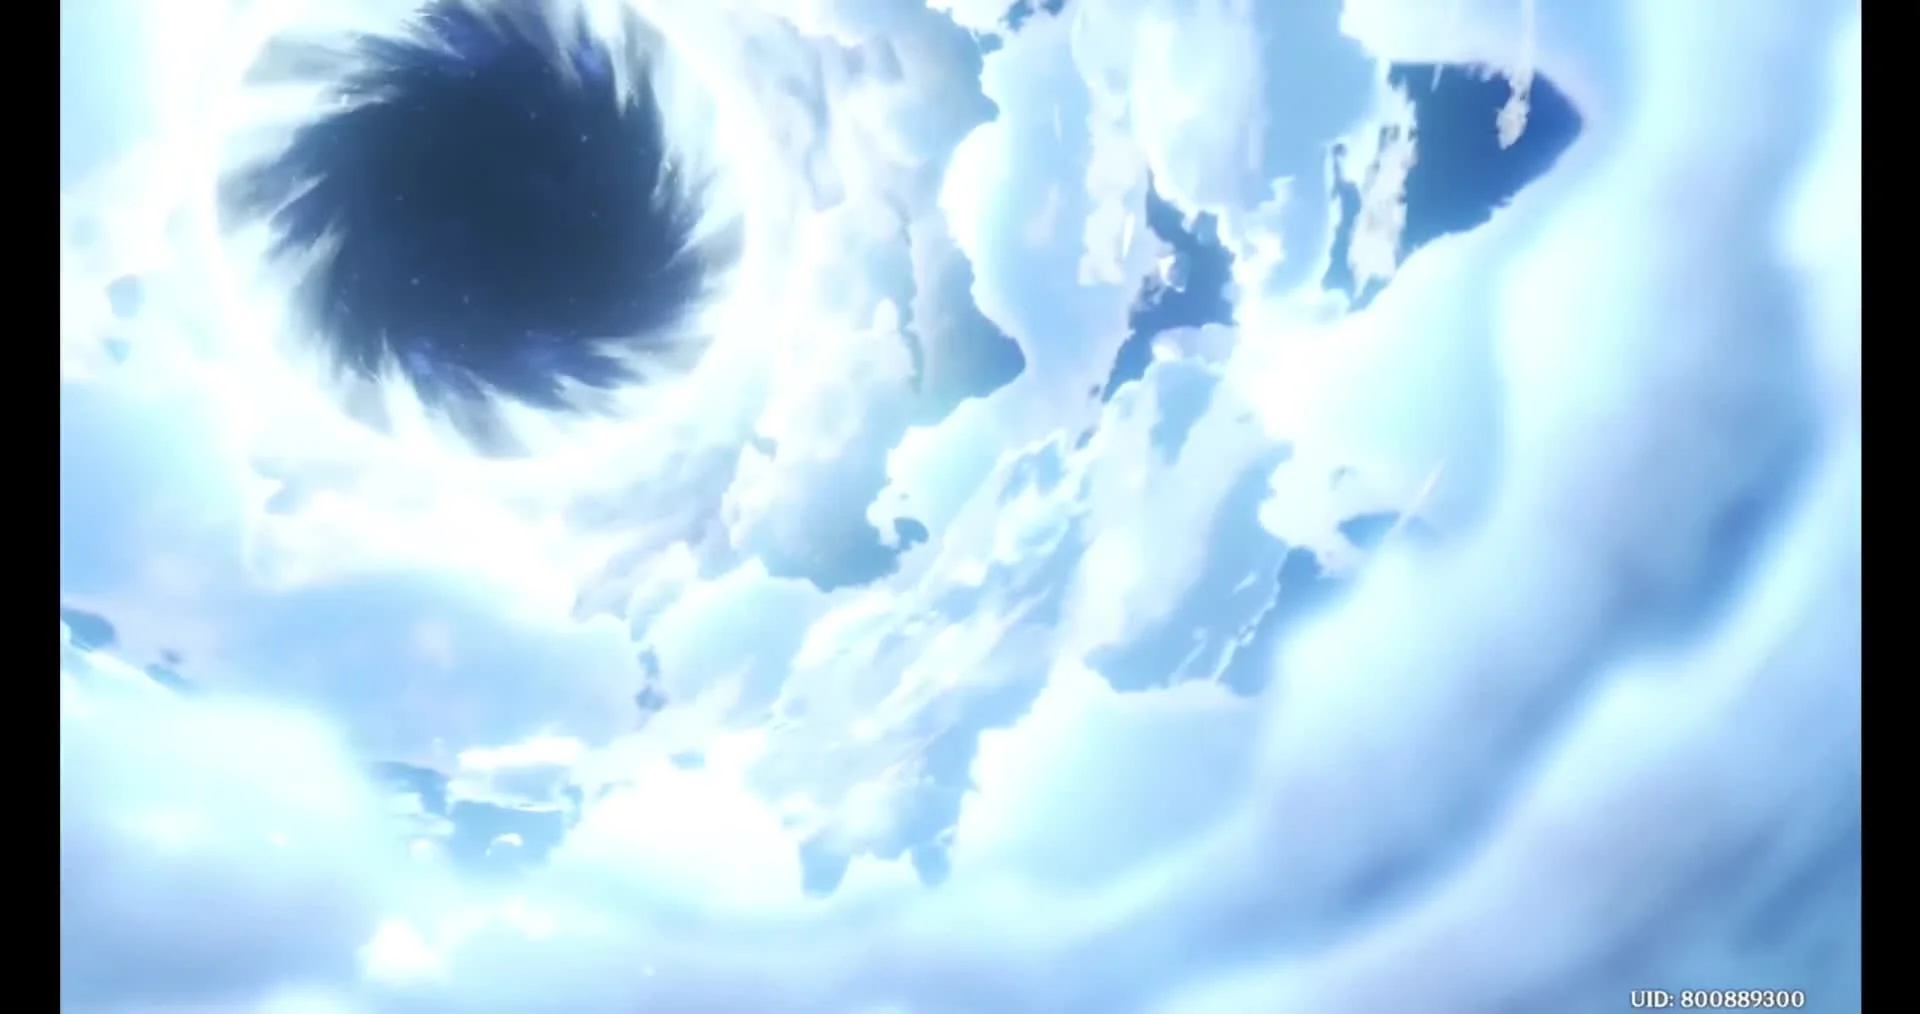
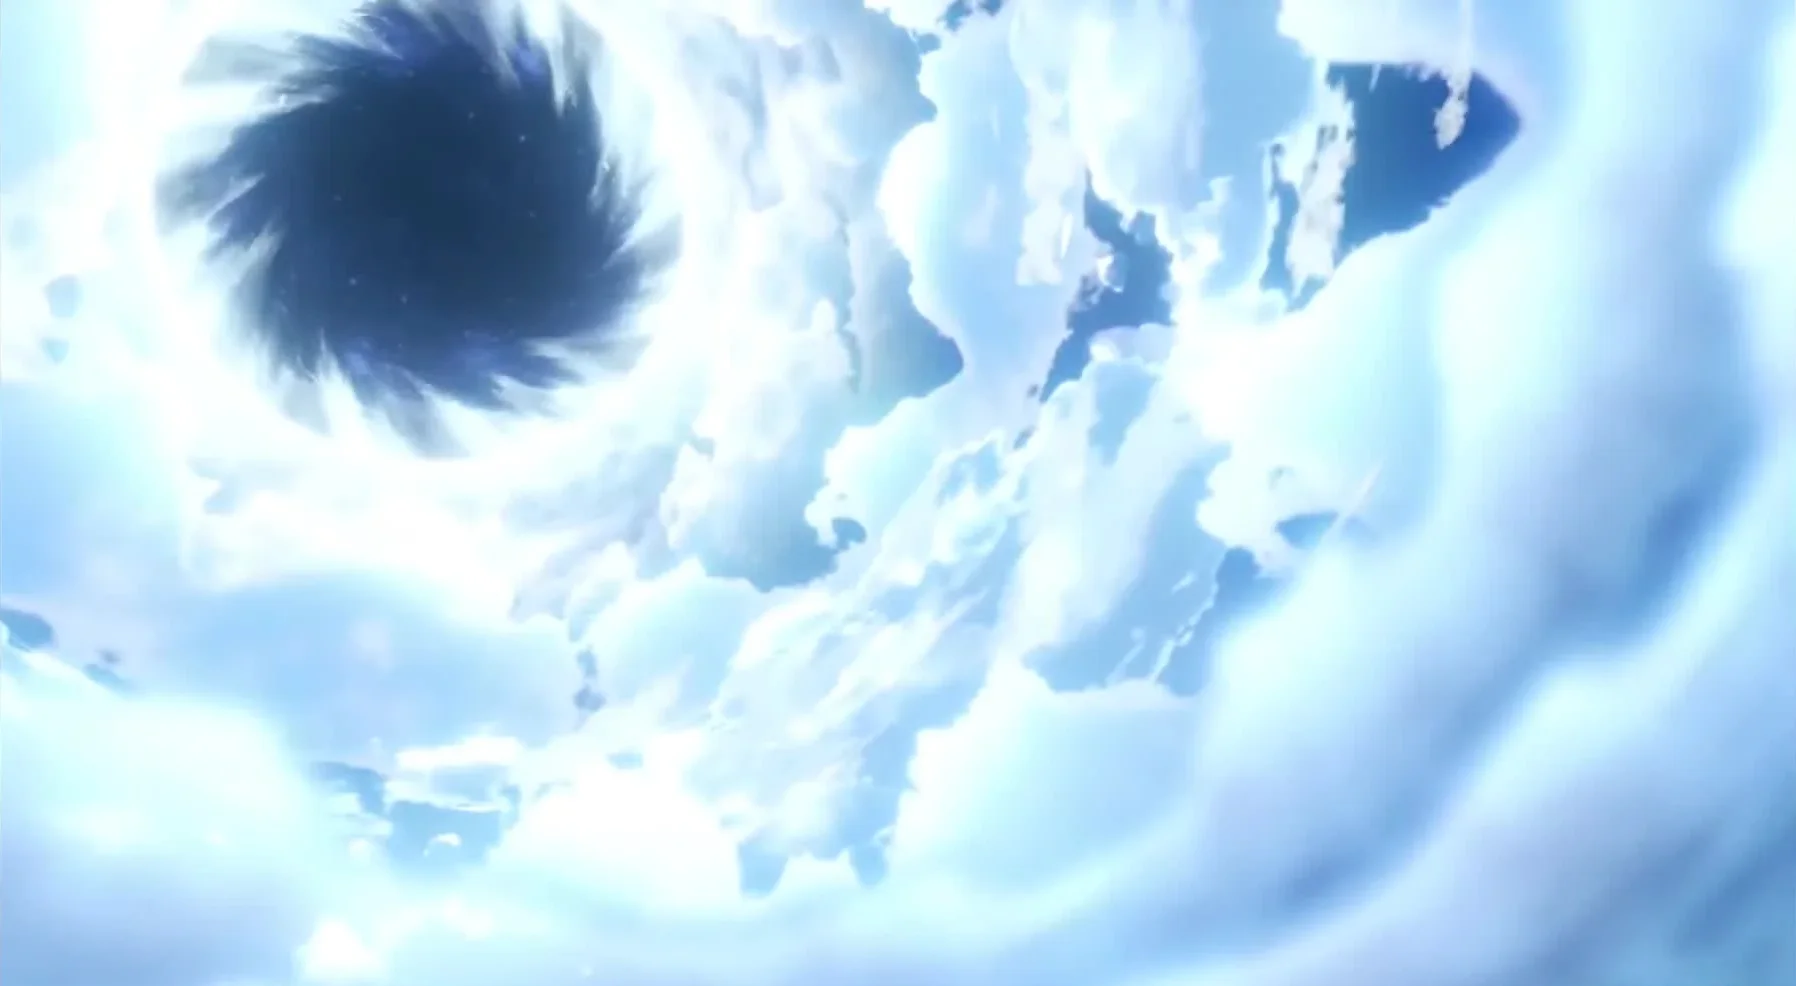
Resolve little glitch caused by animated bg

diff --git a/src/lib/components/banner/MainBanner.svelte b/src/lib/components/banner/MainBanner.svelte
@@ -1,6 +1,6 @@
 <script>
 	import { getContext } from 'svelte';
-	import { fly } from 'svelte/transition';
+	import { fly, fade } from 'svelte/transition';
 	import { t } from 'svelte-i18n';
 	import {
 		acquaint,
@@ -164,6 +164,18 @@
 	<title>{$t('title', { default: APP_TITLE })}</title>
 </svelte:head>
 
+<video
+	in:fade={{ duration: 2000 }}
+	muted
+	loop
+	autoplay
+	poster="/images/background/wish-background.webp"
+>
+	<source src="/assets/videos/bg.webm" type="video/webm" />
+	<track kind="captions" />
+</video>
+<div class="overlay" />
+
 {#if showWish}
 	<WishResult list={wishResult} on:wishEnd={checkObtained} {skipSplashOneByOne} />
 {/if}
@@ -210,6 +222,47 @@
 		background-repeat: no-repeat;
 		background-position: center;
 		background-size: cover;
+	}
+	video {
+		position: fixed;
+		top: 50%;
+		left: 50%;
+		transform: translate(-50%, -50%);
+		width: 110%;
+		height: 105%;
+		object-fit: cover;
+		object-position: 20%;
+	}
+
+	.overlay {
+		content: '';
+		position: absolute;
+		top: 50%;
+		left: 50%;
+		transform: translate(-50%, -50%);
+		display: block;
+		width: 120%;
+		height: 120%;
+		background-color: rgba(0, 0, 0, 0.08);
+		box-shadow: 0 0 50vh rgba(0, 0, 0, 0.9) inset;
+	}
+
+	:global(.mobile) .overlay {
+		width: 140%;
+		height: 140%;
+	}
+
+	@media screen and (max-width: 645px) {
+		.overlay {
+			width: 150%;
+		}
+	}
+
+	@media screen and (max-width: 400px) {
+		.overlay {
+			width: 150%;
+			height: 130%;
+		}
 	}
 
 	.top,

diff --git a/src/routes/index.svelte b/src/routes/index.svelte
@@ -163,12 +163,6 @@
 	setContext('closeWelkin', closeWelkin);
 </script>
 
-<video muted loop autoplay poster="/images/background/wish-background.webp">
-	<source src="/assets/videos/bg.webm" type="video/webm" />
-	<track kind="captions" />
-</video>
-<div class="overlay" />
-
 <!-- Obtained Items -->
 {#if showObtained}
 	<svelte:component this={Obtained} items={obtainedItems} on:close={handleCloseObtained} />
@@ -201,47 +195,3 @@
 {#if $pageActive === 'shop'}
 	<svelte:component this={ShopSection} />
 {/if}
-
-<style>
-	video {
-		position: absolute;
-		top: 50%;
-		left: 50%;
-		transform: translate(-50%, -50%);
-		width: 110%;
-		height: 105%;
-		object-fit: cover;
-		object-position: 20%;
-	}
-
-	.overlay {
-		content: '';
-		position: absolute;
-		top: 50%;
-		left: 50%;
-		transform: translate(-50%, -50%);
-		display: block;
-		width: 120%;
-		height: 120%;
-		background-color: rgba(0, 0, 0, 0.08);
-		box-shadow: 0 0 50vh rgba(0, 0, 0, 0.9) inset;
-	}
-
-	:global(.mobile) .overlay {
-		width: 140%;
-		height: 140%;
-	}
-
-	@media screen and (max-width: 645px) {
-		.overlay {
-			width: 150%;
-		}
-	}
-
-	@media screen and (max-width: 400px) {
-		.overlay {
-			width: 150%;
-			height: 130%;
-		}
-	}
-</style>
